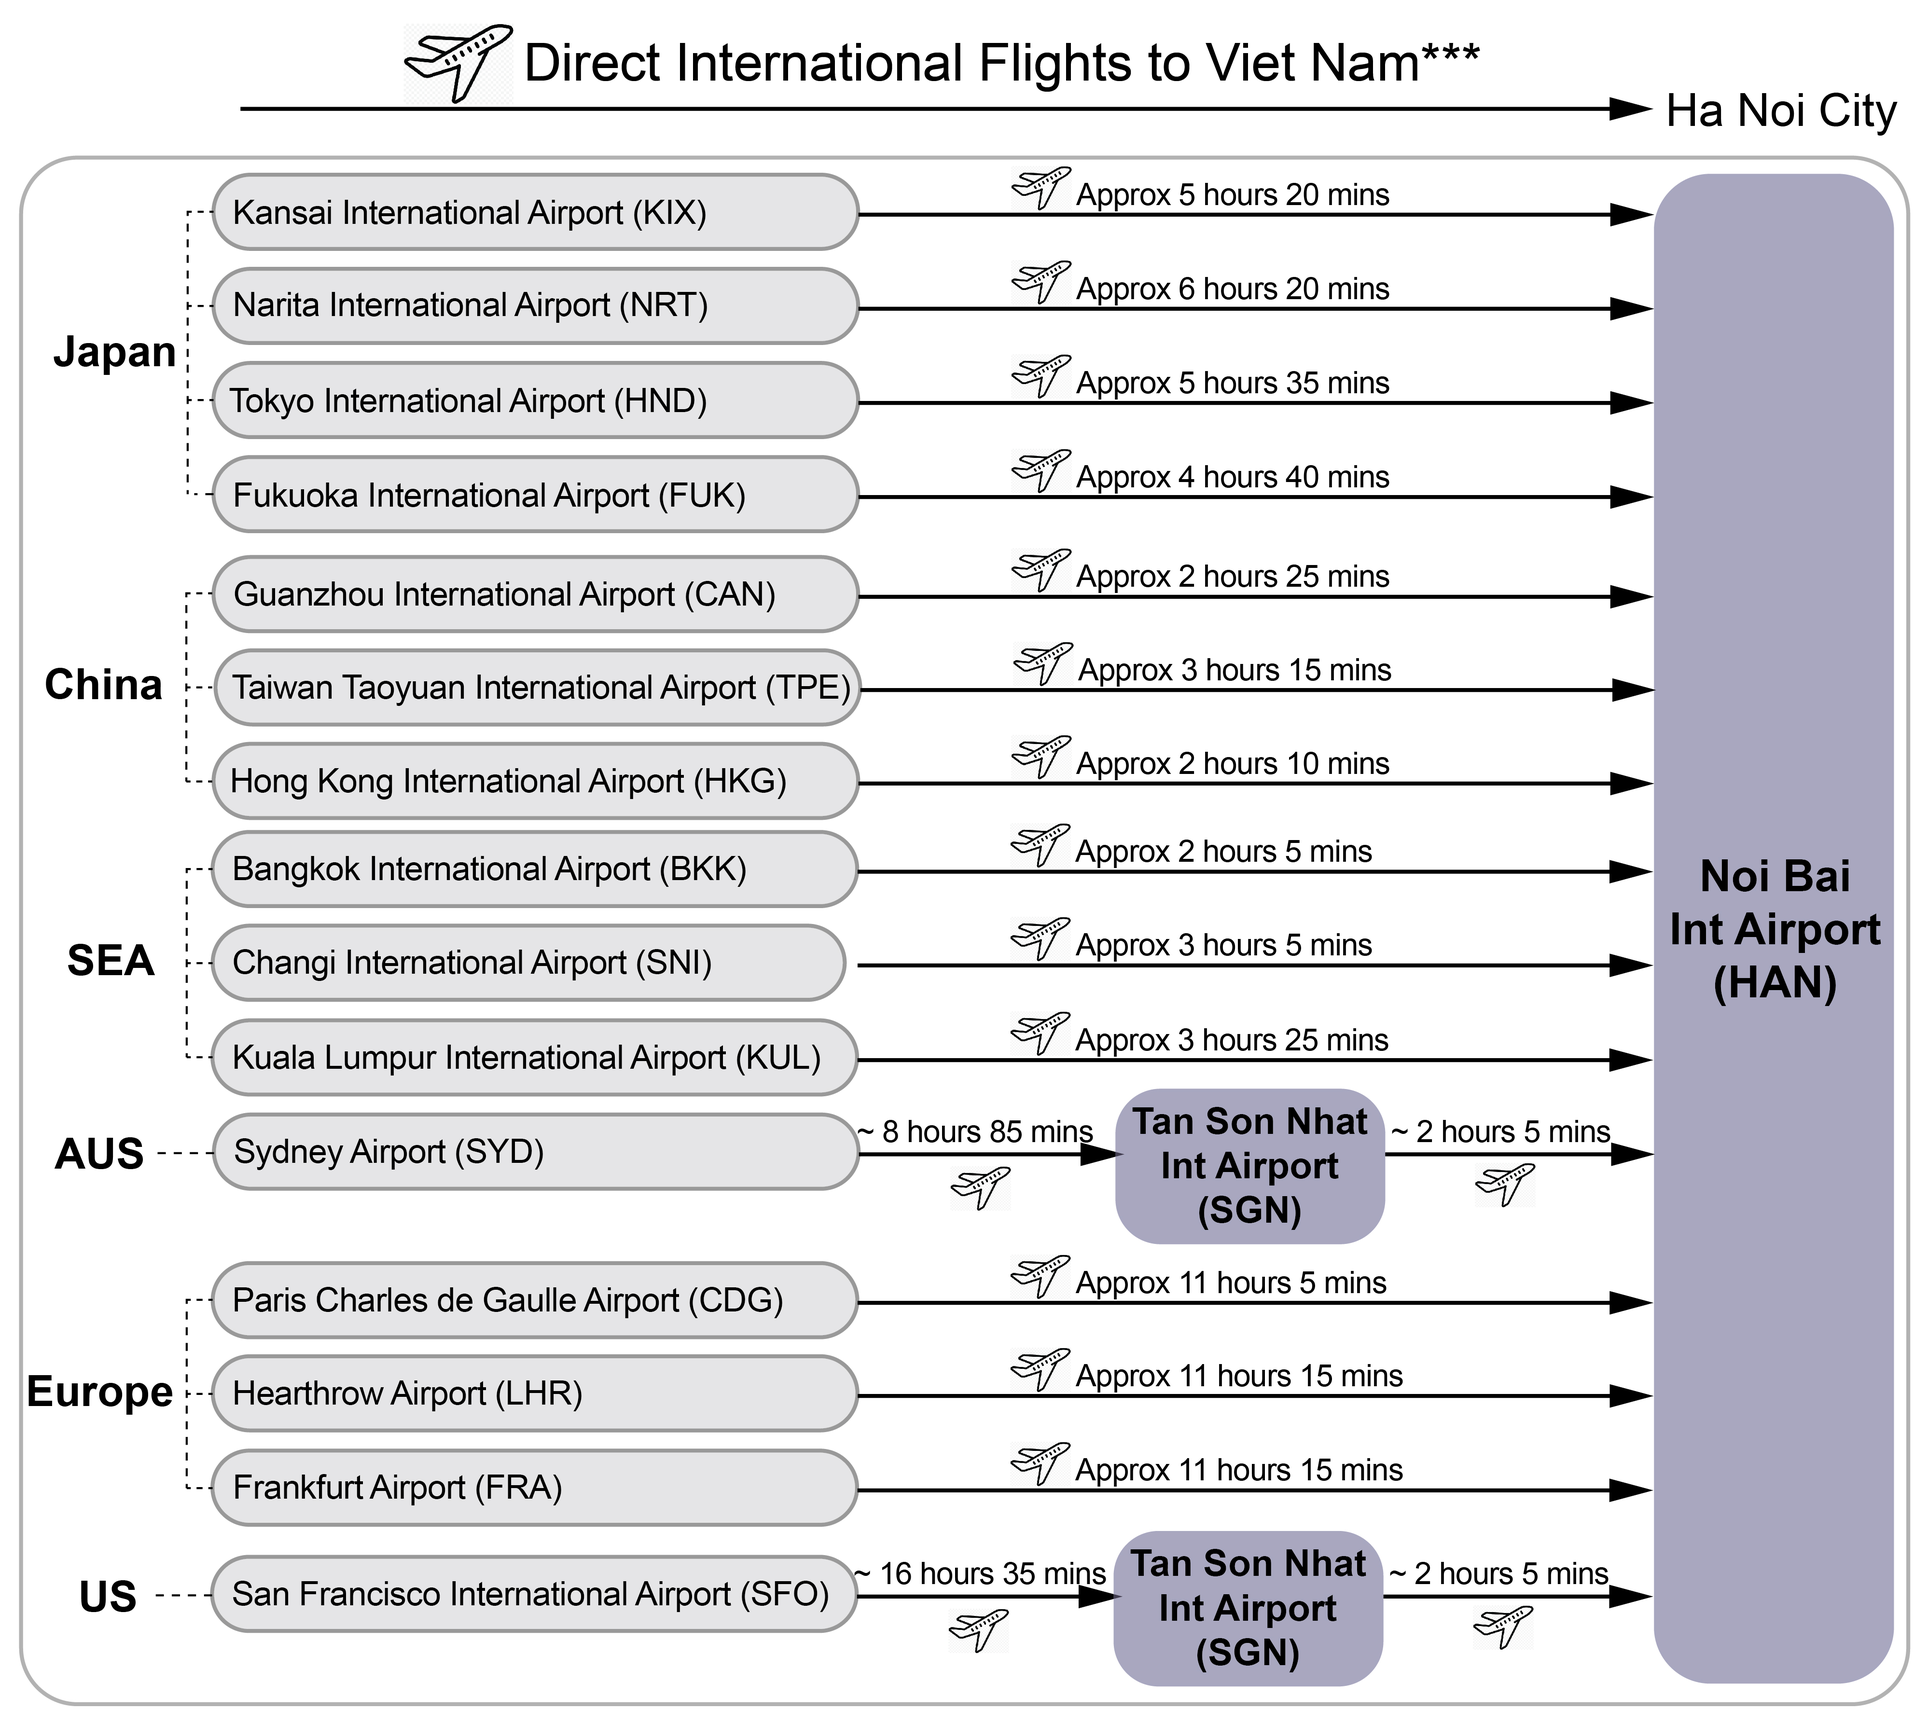
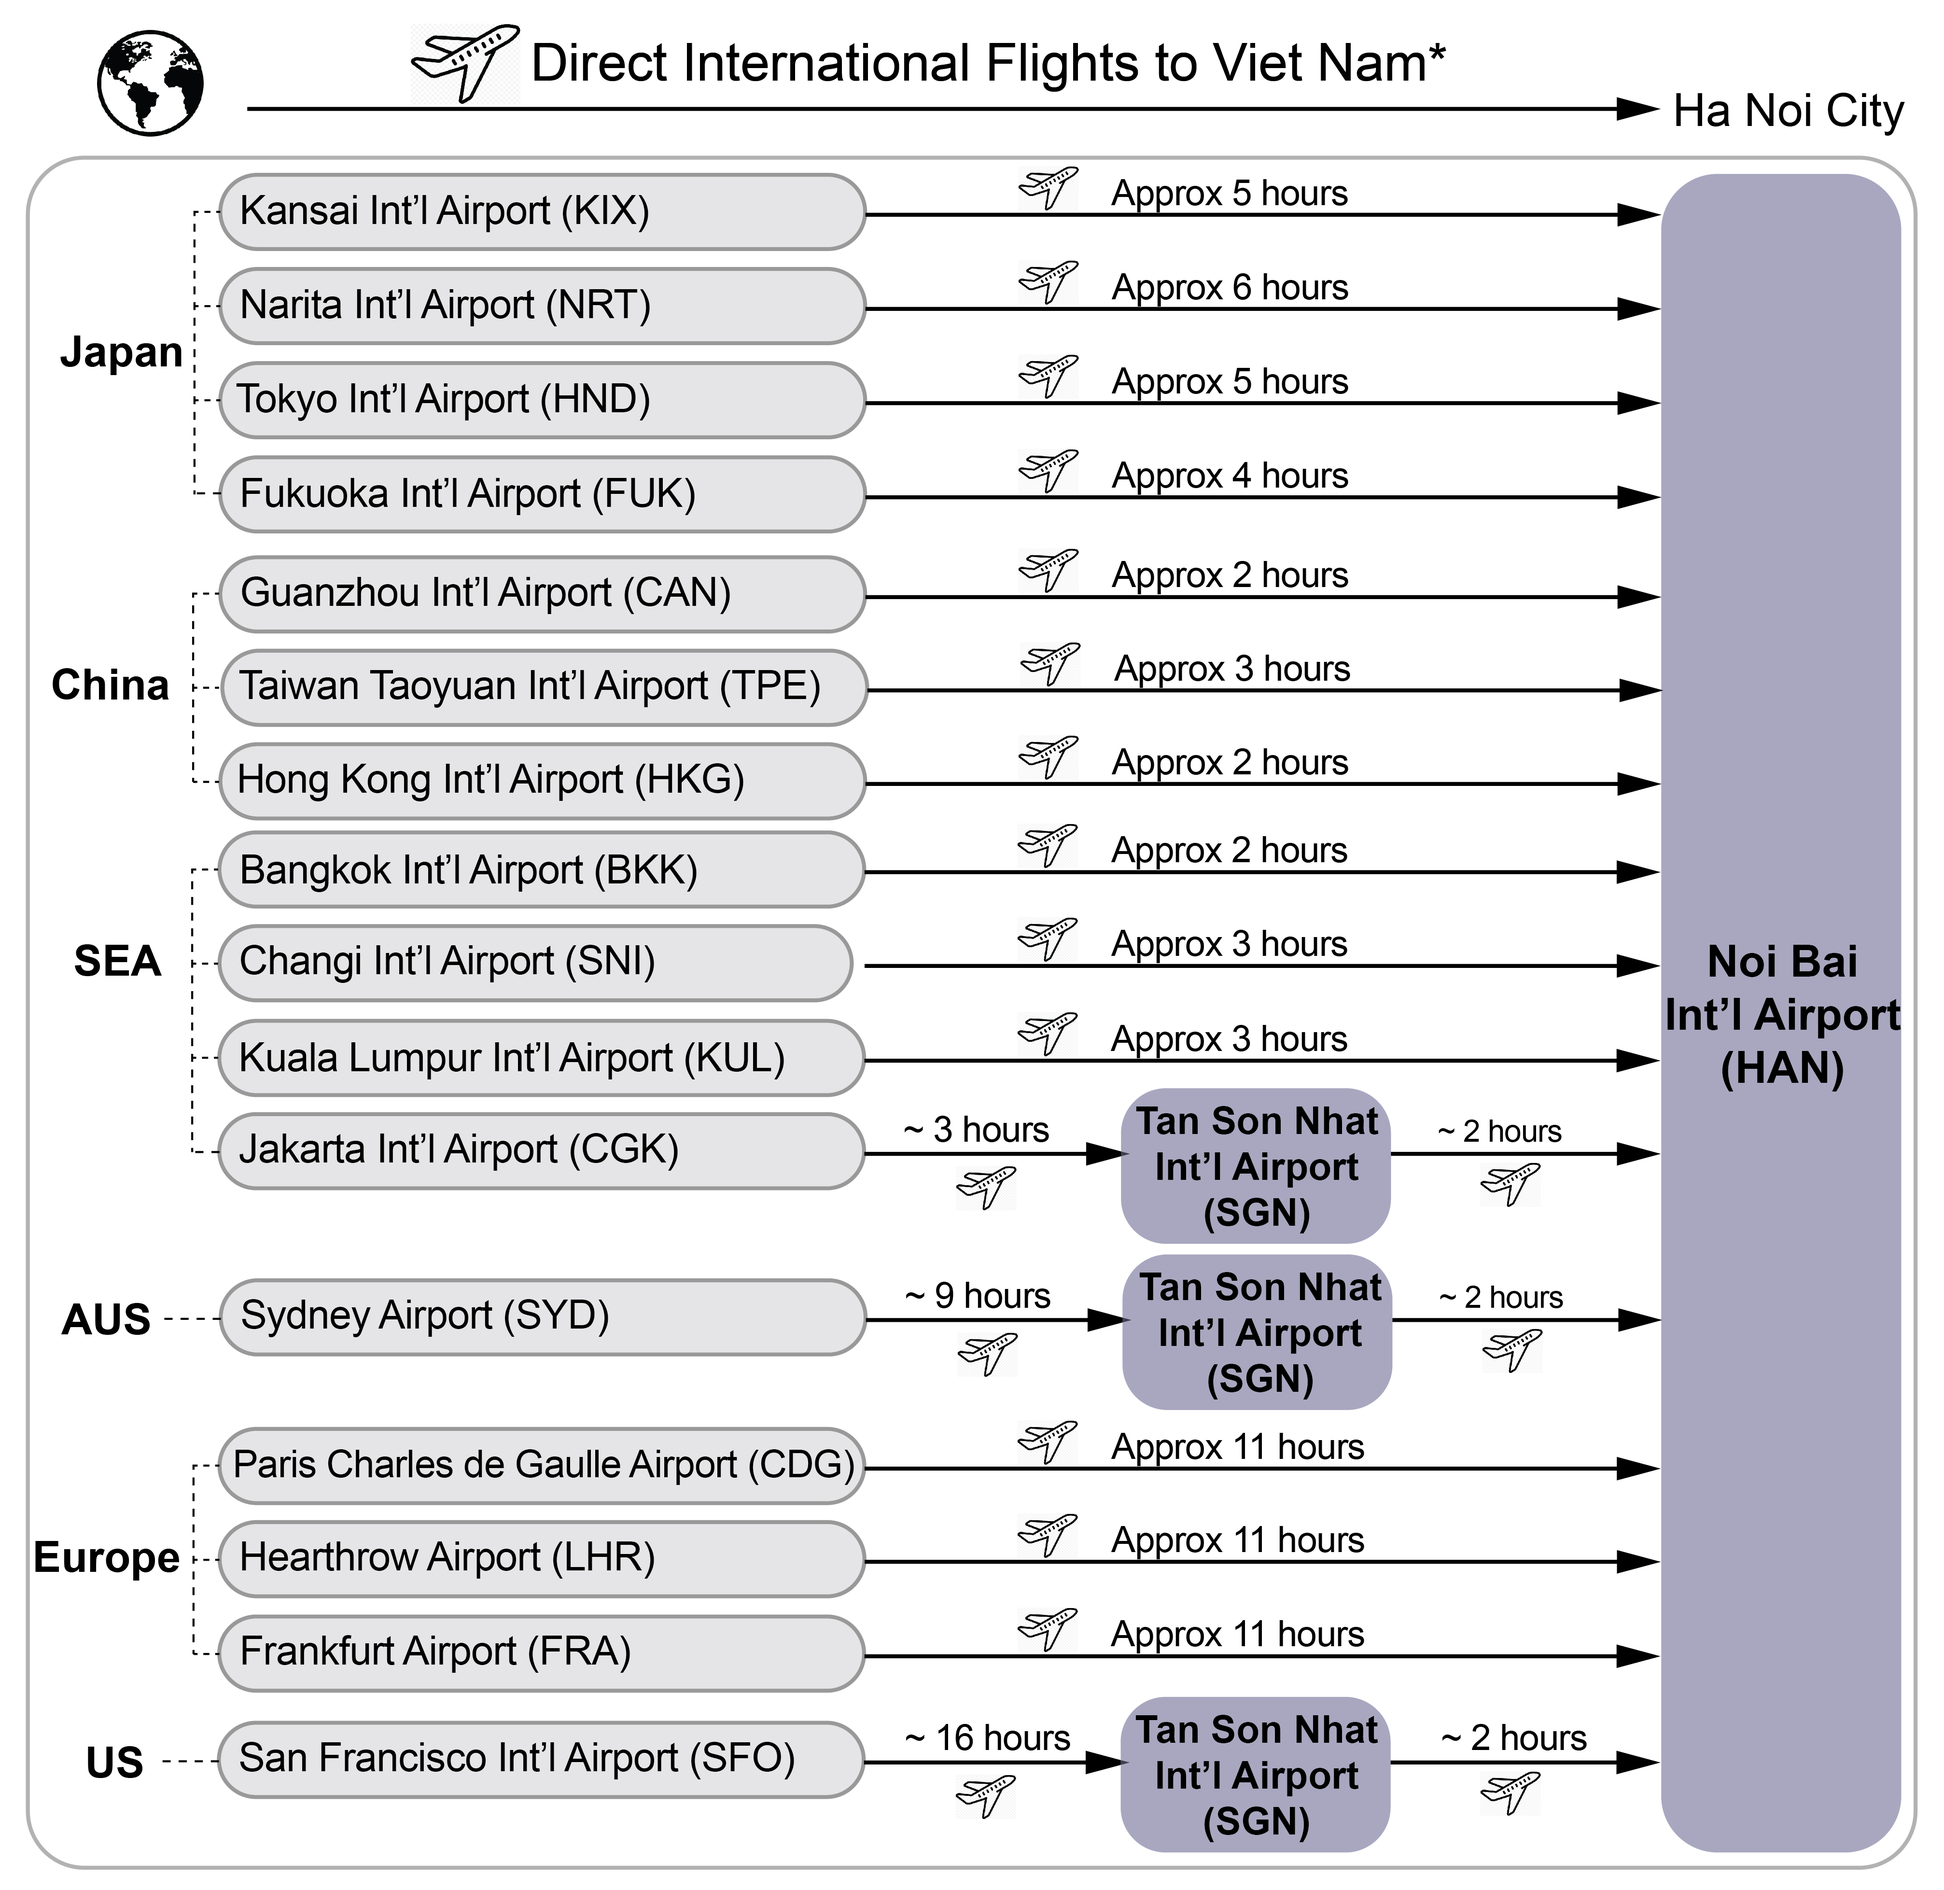
Fix transportation information

Changed region(s): [[0.0, 0.0, 0.9932, 0.9941]]

diff --git a/page/SubPage/Venue.html b/page/SubPage/Venue.html
@@ -58,7 +58,7 @@
                 <li class="lg:pr-1.5 lg:border-r-[1px] lg:border-gray-800">
                   <a class="SII2024-top-menu-item whitespace-nowrap dropbtn" href="" >Local-infor</a>  
                   <ul class="dropdown capitalize">
-                    <li class="hover:text-orange-700 "><a href="./Venue.html">Visa</a></li>
+                    <li class="hover:text-orange-700 "><a href="./Venue.html">Venue</a></li>
                     <li class="hover:text-orange-700 "><a href="./transportation.html">Transportation</a></li>
                     <li class="hover:text-orange-700 "><a href="./Visa.html">Visa</a></li>
                     <!-- <li class="hover:text-orange-700 "><a href="./page/localInfor.html">Accomodation</a></li> -->
@@ -136,19 +136,21 @@
                   climate, and cultural characters.
               </p>
             </div>
-            
-            <div class="map-responsive mt-5">
-                <iframe width="560" height="315" src="https://www.youtube.com/embed/mymFlKq9YlY" title="YouTube video player" frameborder="0" allow="accelerometer; autoplay; clipboard-write; encrypted-media; gyroscope; picture-in-picture; web-share" allowfullscreen></iframe>
+            <div class="">
+                <div class="ytb mx-auto block mt-5">
+                  <iframe width="560" height="315" class="ytb mx-auto" src="https://www.youtube.com/embed/mymFlKq9YlY" title="YouTube video player" frameborder="0" allow="accelerometer; autoplay; clipboard-write; encrypted-media; gyroscope; picture-in-picture; web-share" allowfullscreen></iframe>
+                </div>
+                <div class="ytb mx-auto block mt-5"> 
+                    <iframe width="560" height="315" class="ytb mx-auto" src="https://www.youtube.com/embed/videoseries?loop=1&list=PLWJ5y0BZXDqP3nS9K7sUypif6kKdRIIBF" title="YouTube video player" frameborder="0" allow="accelerometer; autoplay; clipboard-write; encrypted-media; gyroscope; picture-in-picture; web-share" allowfullscreen></iframe>
+                </div>
+                <div class="ytb mx-auto block mt-5"> 
+                    <iframe width="560" height="315" class="ytb mx-auto" src="https://www.youtube.com/embed/SpOWgms2uto" title="YouTube video player" frameborder="0" allow="accelerometer; autoplay; clipboard-write; encrypted-media; gyroscope; picture-in-picture; web-share" allowfullscreen></iframe>
+                </div>
+                <div class="ytb mx-auto block mt-5">
+                    <iframe width="560" height="315" class="ytb mx-auto" src="https://www.youtube.com/embed/a-mq7CkKww8" title="YouTube video player" frameborder="0" allow="accelerometer; autoplay; clipboard-write; encrypted-media; gyroscope; picture-in-picture; web-share" allowfullscreen></iframe>
+                </div>
             </div>
-            <div class="map-responsive mt-5"> 
-                <iframe width="560" height="315" src="https://www.youtube.com/embed/videoseries?autoplay=1&loop=1&list=PLWJ5y0BZXDqP3nS9K7sUypif6kKdRIIBF" title="YouTube video player" frameborder="0" allow="accelerometer; autoplay; clipboard-write; encrypted-media; gyroscope; picture-in-picture; web-share" allowfullscreen></iframe>
-            </div>
-            <div class="map-responsive mt-5"> 
-                <iframe width="560" height="315" src="https://www.youtube.com/embed/SpOWgms2uto" title="YouTube video player" frameborder="0" allow="accelerometer; autoplay; clipboard-write; encrypted-media; gyroscope; picture-in-picture; web-share" allowfullscreen></iframe>
-            </div>
-            <div class="map-responsive mt-5">
-                <iframe width="560" height="315" src="https://www.youtube.com/embed/a-mq7CkKww8" title="YouTube video player" frameborder="0" allow="accelerometer; autoplay; clipboard-write; encrypted-media; gyroscope; picture-in-picture; web-share" allowfullscreen></iframe>
-            </div>
+
         </main>  
           
 

diff --git a/page/SubPage/transportation.html b/page/SubPage/transportation.html
@@ -126,8 +126,8 @@
 
         <main class="mainCont">
           <div class="justify-start items-center md:px-40 md:py-5 mx-10 font-Karla ">          
-              <p class="Text-subHeader">
-                1. From International Airport to Noi Bai Airport, Ha Noi, Viet Nam
+              <p class="Text-subHeader font-bold">
+                1. From the word to Viet Nam (Ha Noi).
               </p>
               
               <div class="mt-4 justify-start items-center mx-auto">
@@ -135,18 +135,18 @@
               </div>
               <p class="Text-contain mb-5">
                 Note: 
-                <br> *** Above are direct flights operated by Vietnam National Airlines (knows as Vietnam Airlines). There are many other direct destinations all over the world with most of the leading airlines.
+                <br>* Above are direct flights operated by Vietnam National Airlines (knows as Vietnam Airlines). There are many other direct destinations all over the world with most of the leading airlines.
               </p>
-              <p class="Text-subHeader mt-10">
-                2. From Noi Bai Airport to SII2024 Venue, Ha Long, Viet Nam.
+              <p class="Text-subHeader font-bold  mt-10">
+                2. From Ha Noi to SII Venue (Ha Long).
               </p>
               <div class="mt-4 justify-start items-center mx-auto ">
                 <img src="../../Image/Travel/LocalTravel.jpg" class="">
               </div>
               <p class="Text-contain mb-5">
                 Notes: 
-                  <br>* Booking page will be prepared upon registration
-                  <br>** Pre-order is required. For more information, please visit: https://vietnamseaplanetours.com/
+                  <br>** Booking page will be prepared upon registration.
+                  <br>*** Pre-order is required. For more information, please visit <a href="https://vietnamseaplanetours.com/" class="text-blue-800 font-bold underline ">here</a> for more information.
               </p>
           </div>
         </main>

diff --git a/page/SubPage/Visa.html b/page/SubPage/Visa.html
@@ -124,17 +124,17 @@
           </div>
           
           <main class="mainCont">
-            <div class="justify-start items-center tiny:px-3 sm:px-15 md:px-20 md:py-5 mx-10 font-Karla">
+            <div class="justify-start items-center tiny:px-3 sm:px-15 md:px-20 md:py-5 mx-10 ">
               <div class="">           
                 <div class="text-gray-700 leading-7 mb-6 text-justify  justify-center">              
-                  <div class="tiny:text-[14px] sm:text-[17px] mt-10 mb-1 font-bold ">1. Visa-exempt countries </div>
+                  <div class="Text-subHeader mt-10 mb-1 font-bold ">1. Visa-exempt countries </div>
                   
                   <div id="VisaExempted" class="overflow-x-auto relative ml-3">
                     On January 2022, Vietnam exempted visas for citizens of these below countries (ordinary passports). Note: This is just the reference information, please contact the nearest Consulates, Embassies of Vietnam for more information.
                   </div>
                   
   
-                  <table class="w-full table-fixed border-collapse  text-sm text-left text-gray-500 dark:text-gray-400">
+                  <table class="Text-contain w-full table-fixed border-collapse  text-sm text-left text-gray-500 dark:text-gray-400">
                     <thead class="text-xs text-gray-700 uppercase bg-gray-200 dark:bg-gray-700 dark:text-gray-400">
                         <tr>
                             <th scope="col" class="py-3 px-6">
@@ -288,7 +288,7 @@
                         </tr>
                         
                     </tbody>
-                  </table> 
+                  </table>
   
                   
                     

diff --git a/index.html b/index.html
@@ -375,7 +375,7 @@
                     class="mb-5 hover:bg-gray-100 hover:opacity-90 hover:transition-all hover:ease-linear hover:duration-200">
                 </a> -->
                 <div class="map-responsive"> 
-                  <iframe width="560" height="315" src="https://www.youtube.com/embed/videoseries?autoplay=1&loop=1&list=PLWJ5y0BZXDqP3nS9K7sUypif6kKdRIIBF" title="YouTube video player" frameborder="0" allow="accelerometer; autoplay; clipboard-write; encrypted-media; gyroscope; picture-in-picture; web-share" allowfullscreen></iframe>
+                  <iframe width="560" height="315" src="https://www.youtube.com/embed/videoseries?loop=1&list=PLWJ5y0BZXDqP3nS9K7sUypif6kKdRIIBF" title="YouTube video player" frameborder="0" allow="accelerometer; autoplay; clipboard-write; encrypted-media; gyroscope; picture-in-picture; web-share" allowfullscreen></iframe>
                 </div>
                 <p class="text-justify mt-4 Text-contain">
                   <a href="https://whc.unesco.org/en/list/672/" class="font-semibold hover:text-blue-800"> Ha Long Bay </a> , in the Gulf of Tonkin, includes some 1,600 islands and islets, forming a spectacular

diff --git a/input.css b/input.css
@@ -186,6 +186,12 @@ html,body{
   position:absolute;
 }
 
+.ytb{
+  width:70%;
+}
+
+
+
 .slick-slider .slick-prev, .slick-next
 {
   display:none;

diff --git a/output.css b/output.css
@@ -1747,6 +1747,10 @@ html,body{
   position:absolute;
 }
 
+.ytb{
+  width:70%;
+}
+
 .slick-slider .slick-prev, .slick-next
 {
   display:none;
